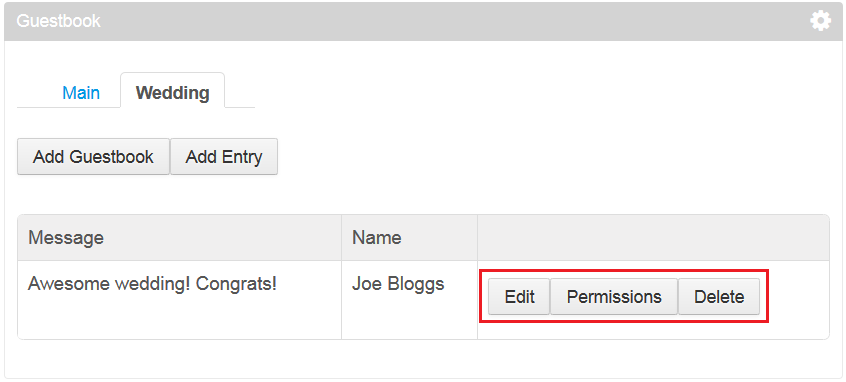
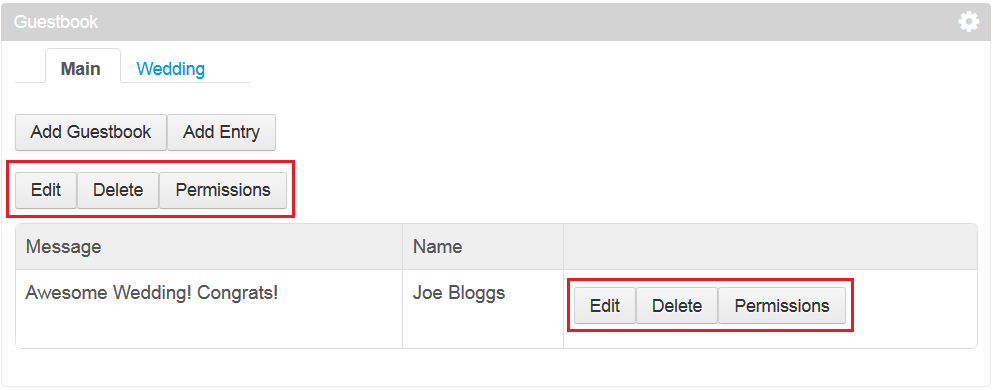
LRDOCS-1340 Update placement of portlet buttons and update snapshots referencing it

diff --git a/develop/learning-paths/code/learning-sdk/portlets/guestbook-jsf-portlet/docroot/WEB-INF/src/com/liferay/docs/guestbook/bean/GuestbookBacking.java b/develop/learning-paths/code/learning-sdk/portlets/guestbook-jsf-portlet/docroot/WEB-INF/src/com/liferay/docs/guestbook/bean/GuestbookBacking.java
@@ -17,14 +17,8 @@ import java.util.ArrayList;
 import java.util.List;
 
 import javax.annotation.PostConstruct;
-import javax.el.ELContext;
 import javax.faces.bean.ManagedBean;
 import javax.faces.bean.ViewScoped;
-import javax.faces.context.ExternalContext;
-import javax.portlet.PortletRequest;
-import javax.portlet.PortletResponse;
-import javax.servlet.http.HttpServletRequest;
-import javax.servlet.http.HttpServletResponse;
 
 import com.liferay.docs.guestbook.wrappers.Entry;
 import com.liferay.docs.guestbook.service.EntryLocalServiceUtil;
@@ -34,14 +28,8 @@ import com.liferay.docs.guestbook.service.persistence.GuestbookUtil;
 import com.liferay.docs.guestbook.wrappers.Guestbook;
 
 import com.liferay.faces.portal.context.LiferayFacesContext;
-import com.liferay.faces.util.jsp.PageContextAdapter;
-import com.liferay.faces.util.jsp.StringJspWriter;
 
 import com.liferay.portal.kernel.exception.SystemException;
-import com.liferay.portal.security.permission.ActionKeys;
-import com.liferay.portal.util.PortalUtil;
-
-import com.liferay.taglib.security.PermissionsURLTag;
 
 
 /**
@@ -55,7 +43,6 @@ public class GuestbookBacking extends AbstractBacking {
 	public static final String MODEL = "com.liferay.docs.guestbook.model";
 
 	private Boolean hasAddPermission;
-	private Boolean hasPermissions;
 
 	// Private Data Members
 	private Guestbook originalGuestbook;
@@ -68,8 +55,6 @@ public class GuestbookBacking extends AbstractBacking {
 
 	private boolean editingGuestbook;
 	private boolean editingEntry;
-
-	private String permissionsUrl;
 
 	public void add() {
 		setOriginalGuestbook(getSelectedGuestbook());
